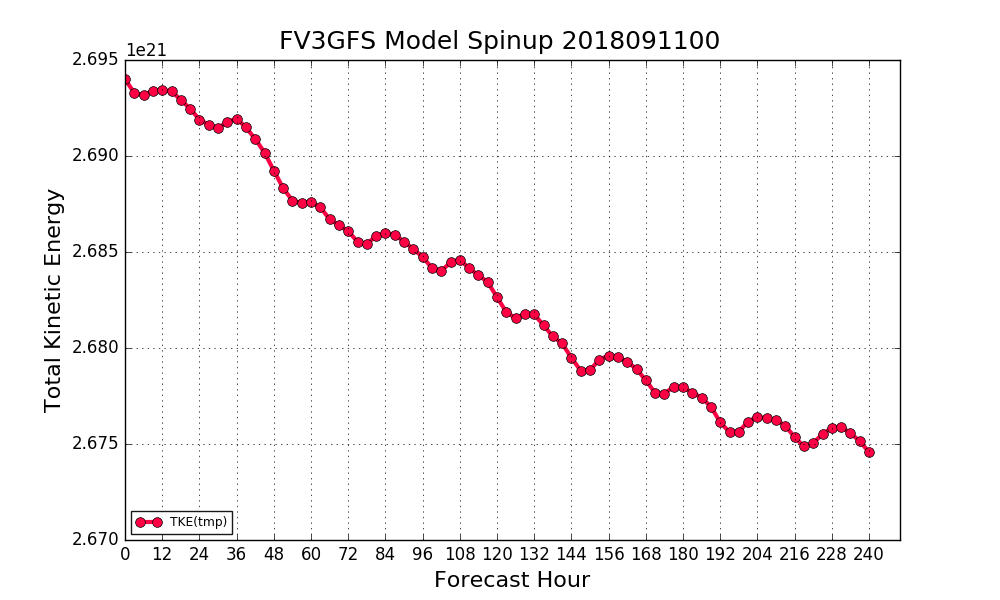
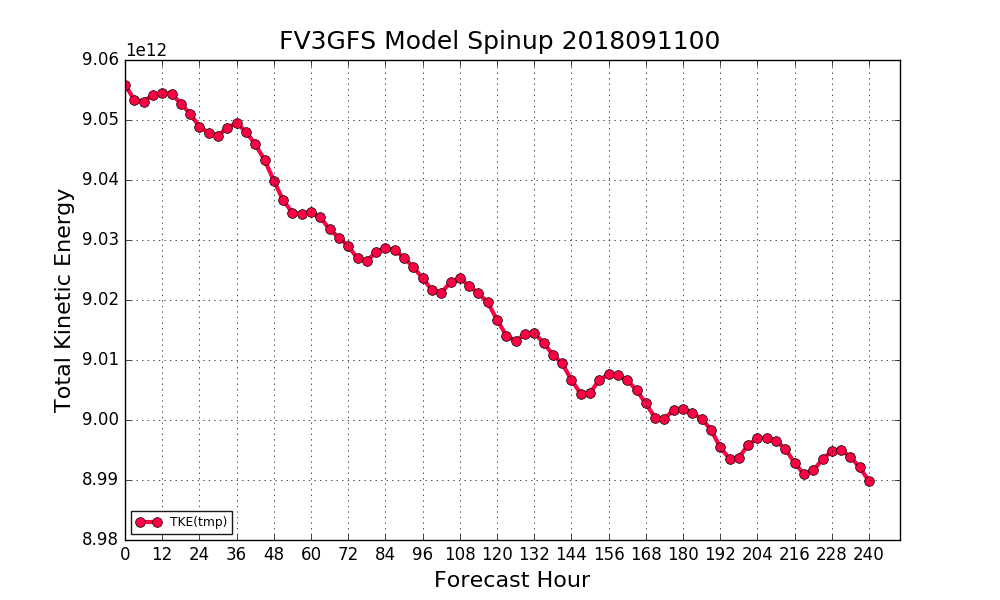
updated equation

diff --git a/templates/model_spinup_template.py b/templates/model_spinup_template.py
@@ -23,10 +23,12 @@ while (fhr <= fmax):
    fnd = Dataset(data_in,mode='r')
 
    if(varname=='ugrdmidlayer' or varname=='tmpmidlayer' or varname=='spfhmidlayer'):
-      KE.append(0.5*(np.abs(fnd.variables[varname][0,:,:,:])).sum(dtype='float')**2)
+      #sum( 0.5 * var**2)
+      KE.append((0.5*(fnd.variables[varname][0,:,:,:])**2).sum(dtype='float'))
 
    if(varname=='pressfc'):
-      KE.append(0.5*(np.abs(fnd.variables[varname][0,:,:])).sum(dtype='float')**2)
+      #sum( 0.5 * var**2)
+      KE.append((0.5*(fnd.variables[varname][0,:,:])**2).sum(dtype='float'))
 
    fcsthour.append(fhr)
    fhr+=finc
